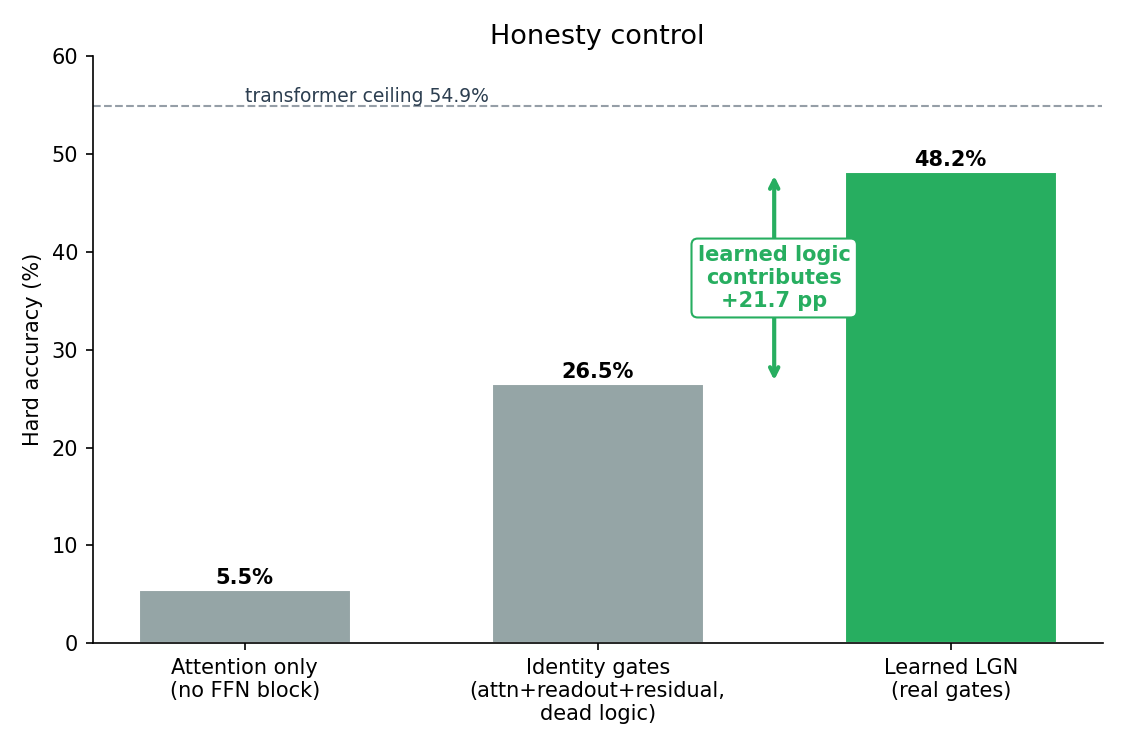
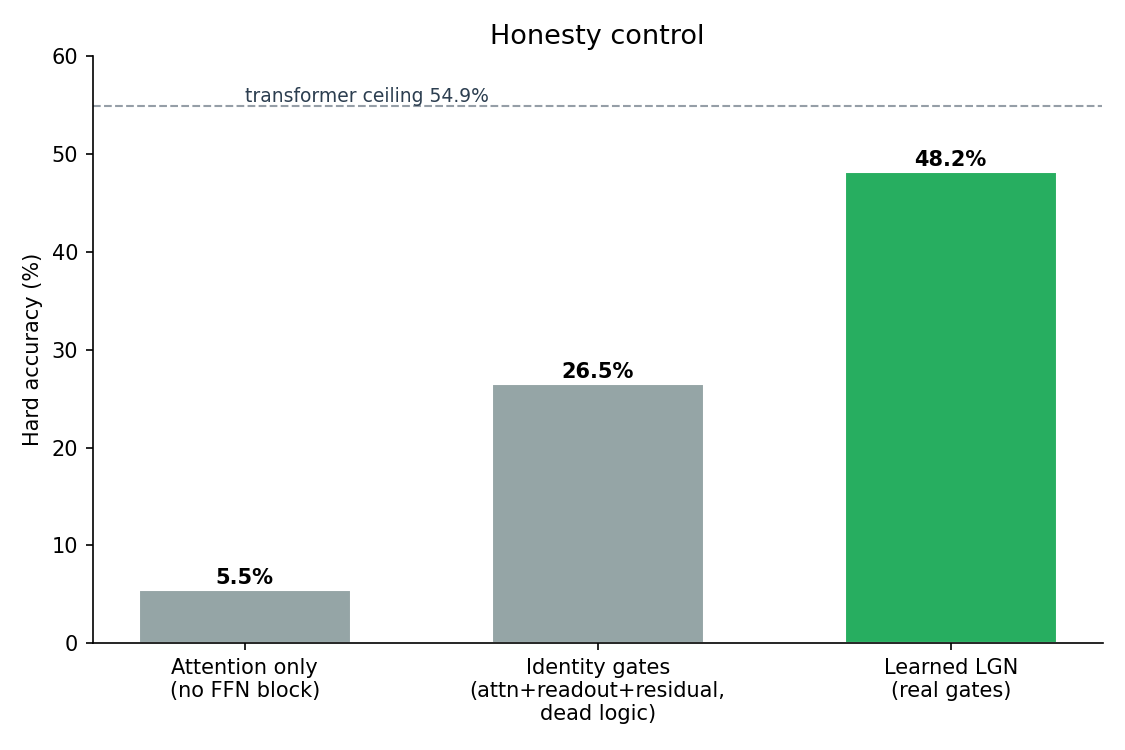
Remove decorative in-bar annotations (% of transformer, +pp arrow box)

Changed region(s): [[0.6222, 0.2453, 0.7778, 0.4907]]

diff --git a/experiments/make_report_figures.py b/experiments/make_report_figures.py
@@ -62,11 +62,6 @@ def fig_headline():
     for b, v in zip(bars, vals):
         ax.text(b.get_x() + b.get_width() / 2, v + 0.6, f'{v:.1f}%',
                 ha='center', va='bottom', fontweight='bold', fontsize=11)
-    # % of transformer annotations on the two LGN bars
-    ax.text(1, att / 2, f'{att/tf*100:.0f}% of\ntransformer', ha='center', va='center',
-            color='white', fontweight='bold', fontsize=10)
-    ax.text(2, pure / 2, f'{pure/pure_tf*100:.0f}% of\ntransformer', ha='center', va='center',
-            color='white', fontweight='bold', fontsize=10)
     ax.set_ylabel('Next-byte top-1 accuracy (%)')
     ax.set_title('LGN as an FFN replacement', fontsize=13)
     ax.set_ylim(0, 60)
@@ -133,11 +128,6 @@ def fig_honesty():
     bars = ax.bar(labels, vals, color=cols, edgecolor='white', width=0.6)
     for b, v in zip(bars, vals):
         ax.text(b.get_x() + b.get_width() / 2, v + 0.6, f'{v:.1f}%', ha='center', fontweight='bold')
-    ax.annotate('', xy=(1.5, best), xytext=(1.5, ident),
-                arrowprops=dict(arrowstyle='<->', color=C_GOOD, lw=2))
-    ax.text(1.5, (best + ident) / 2, f'learned logic\ncontributes\n+{best-ident:.1f} pp',
-            color=C_GOOD, fontweight='bold', va='center', ha='center',
-            bbox=dict(boxstyle='round', fc='white', ec=C_GOOD))
     ax.axhline(tf, color=C_TF, ls='--', lw=1, alpha=0.5)
     ax.text(0, tf + 0.4, f'transformer ceiling {tf:.1f}%', color=C_TF, fontsize=9)
     ax.set_ylabel('Hard accuracy (%)')